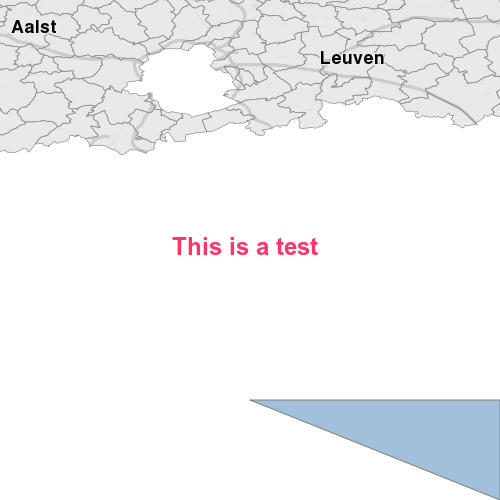
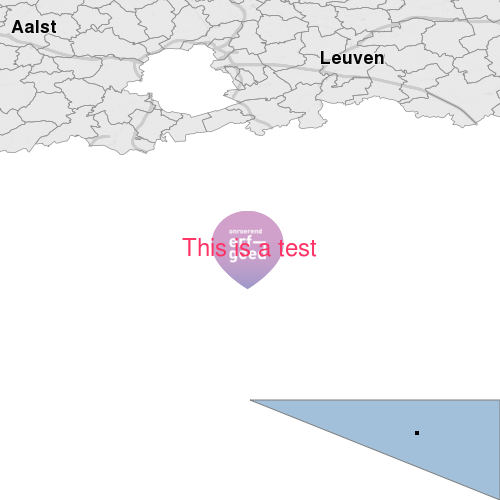
added docs

Changed region(s): [[0.33, 0.42, 0.66, 0.6]]

diff --git a/static_map_generator/renderer.py b/static_map_generator/renderer.py
@@ -134,9 +134,13 @@ class TextRenderer(Renderer):
 
 
 class LogoRenderer(Renderer):
-            #todo: this is just some test implementation!
     def render(self, **kwargs):
-        warnings.warn("still in development, do not use the ScaleRenderer in production", UserWarning)
+
+        defaults = {
+            "gravity": "center",
+            "opacity": 1
+        }
+        kwargs = merge_dicts(defaults, kwargs)
 
         response = requests.get(kwargs['url'], stream=True)
         with Image(blob=response.content) as img:
@@ -152,6 +156,13 @@ class ScaleRenderer(Renderer):
         #todo: this is just some test implementation!
     def render(self, **kwargs):
         warnings.warn("still in development, do not use the ScaleRenderer in production", UserWarning)
+
+        defaults = {
+            "gravity": "center",
+            "opacity": 1
+        }
+        kwargs = merge_dicts(defaults, kwargs)
+
         # first the fraction between image size and real world has to be calculated so that we know how we must resize the scalebar.png.
         # Afterwards the scalebar has to be positioned on a new image with the right width/heigth
 

diff --git a/examples/map_31370.py b/examples/map_31370.py
@@ -21,7 +21,9 @@ config_31370 = {
          {
              'type': 'logo',
              'url': 'https://www.onroerenderfgoed.be/assets/img/logo-og.png',
-             'opacity': 0.5
+             'opacity': 0.5,
+            'imagewidth': 100,
+            'imageheight': 100
 
           },
          {
@@ -36,12 +38,6 @@ config_31370 = {
              'url': 'https://geo.onroerenderfgoed.be/geoserver/wms?',
              'layers': 'vioe_geoportaal:landschapsbeheersplannen',
              'featureid': 'landschapsbeheersplannen.3816'
-
-          },
-         {
-             'type': 'wms',
-             'url': 'https://geo.onroerenderfgoed.be/geoserver/wms?',
-             'layers': 'vioe_geoportaal:onbestaande_laag'
 
           },
          {

diff --git a/tests/test_validators.py b/tests/test_validators.py
@@ -30,6 +30,20 @@ config = {
                 "opacity": 0.5
 
             },
+                        {
+                "type": "wkt",
+            'wkt': 'MULTIPOINT ((103500 192390.11), (103912.03 192390.11))',
+                "color": "steelblue",
+                "opacity": 0.5
+
+            },
+                        {
+                "type": "wkt",
+            'wkt': 'MULTIPOINT (103500 192390.11, 103912.03 192390.11)',
+                "color": "steelblue",
+                "opacity": 0.5
+
+            },
             {
                 "type": "wms",
                 "url": "https://geo.onroerenderfgoed.be/geoserver/wms?",

diff --git a/tests/test_renderer.py b/tests/test_renderer.py
@@ -98,7 +98,6 @@ class UtilsTests(unittest.TestCase):
         renderer.render(
             **{
             'type': 'logo',
-            # 'path': os.path.join(self.here, 'fixtures/logo.png'),
             'url': 'https://www.onroerenderfgoed.be/assets/img/logo-og.png',
             'opacity': 0.5,
              'imagewidth': 100,

diff --git a/examples/map_4326.py b/examples/map_4326.py
@@ -20,7 +20,9 @@ config_4326 = {
          {
              'type': 'logo',
              'url': 'https://www.onroerenderfgoed.be/assets/img/logo-og.png',
-             'opacity': 0.5
+             'opacity': 0.5,
+             'imagewidth': 100,
+            'imageheight': 100
 
           },
          {

diff --git a/docs/source/introduction.rst b/docs/source/introduction.rst
@@ -146,8 +146,23 @@ Not implemented yet
 
 Development
 ===========
-First of all, Mapnik (2.3) and all dependencies has to be installed on your machine. Please use the following instructions:
-https://github.com/mapnik/mapnik/wiki/UbuntuInstallation
+First of all, Mapnik (2.3) and all dependencies has to be installed on your machine and available from a virtual environment.
+
+* Follow installation instructions on https://github.com/mapnik/mapnik/wiki/UbuntuInstallation **Install Mapnik from source** (Mapnik 2.3.x)
+* Create a virtual environment  `mkvirtualenv static_map_generator`
+* Add links to the virtual env  and mapnik packages
+```shell
+ln -s /usr/lib/python2.7/dist-packages/mapnik ~/.virtualenvs/static_map_generator/lib/python2.7/site-packages/mapnik
+ln -s /usr/lib/python2.7/dist-packages/mapnik2 ~/.virtualenvs/static_map_generator/lib/python2.7/site-packages/mapnik2
+```
+* Follow further basic development instructions
+```shell
+(static_map_generator) pip install -r requirements-dev.txt
+(static_map_generator) python setup.py develop
+(static_map_generator) pserve development.ini
+```
+
+Manik is now available on your machine and executable from a virtual python environment.
 
 .. code-block:: bash
     $ pip install -r requirements-dev.txt
